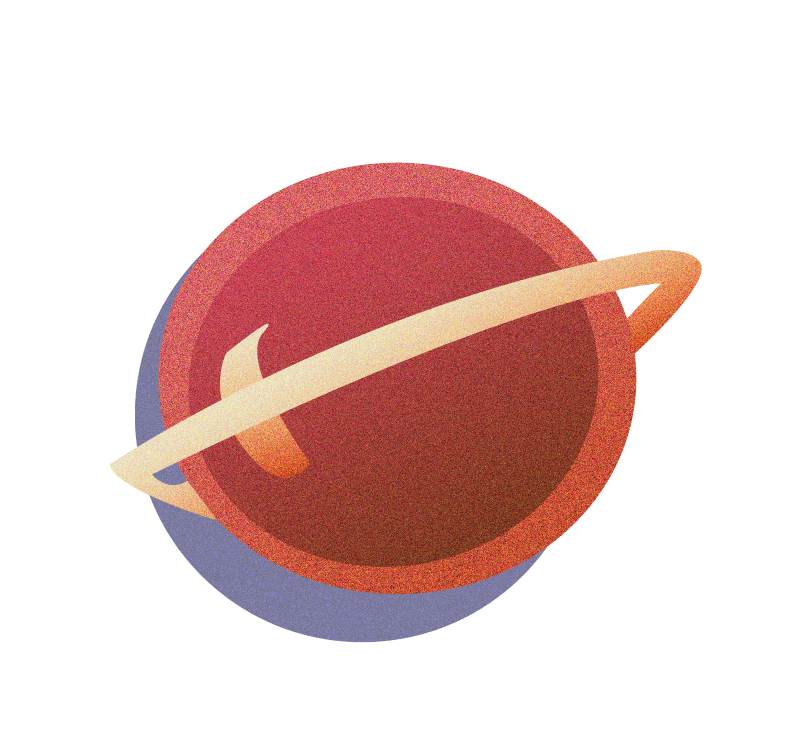
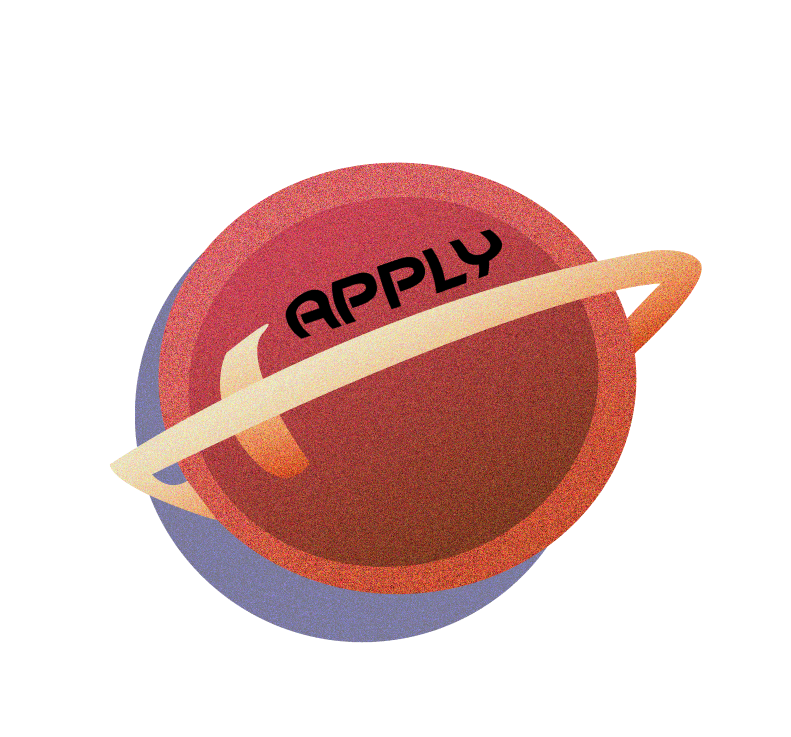
Lots of changes

Changed region(s): [[0.3641, 0.3121, 0.6372, 0.4681]]

diff --git a/src/components/Faq.vue b/src/components/Faq.vue
@@ -1,20 +1,77 @@
 
 <template>
     <div id="faqSponsor-parent">
-        <img src="../assets/custom-images/faq/faq.png" alt="faq" id="faq">
-        <img src="../assets/custom-images/faq/mid-left.png" alt="orange planet" id="orange">
+        <img src="../assets/custom-images/faq/faqLogo.png" alt="faq" id="faq">
         <img src="../assets/custom-images/faq/green-planet.png" alt="pink planet" id="pink">
         <img src="../assets/custom-images/faq/stars-1.png" alt="stars" id="stars-1">
         <img src="../assets/custom-images/faq/stars-2.png" alt="stars" id="stars-2">
-        <img src="../assets/custom-images/faq/stars-3.png" alt="stars" id="stars-3">
-    </div>
+        <!-- <img src="../assets/custom-images/faq/stars-3.png" alt="stars" id="stars-3"> -->
 
+        <div id="questions">
+            <Question
+                question = "What is a hackathon?"
+                answer = "A hackathon is an invention marathon where students build software around a central theme. At Hack WashU, you can look forward to amazing prizes, engaging speakers, and tons of skilled mentors!"
+            />
+            <Question
+                question = "When is Hack WashU?"
+                answer = "Hack WashU will start on the evening of October 15, 2022 and end on the morning of the 17th"
+            />
+            <Question
+                question = "Who can attend Hack WashU?"
+                answer = "Any college student in the continental United States can attend Hack WashU!"
+            />
+            <Question
+                question = "Is Hack WashU in-person?"
+                answer = "Hack WashU will primarily be virtual, but there will be an in-person component for WashU students"
+            />
+            <Question
+                question = "Is Hack WashU free?"
+                answer = "YES!!!"
+            />
+            <Question
+                question = "If I can't code, should I still come?"
+                answer = "YES!!! Hack WashU will be an inclusive event for all"
+            />
+            <Question
+                question = "Will there be swag?"
+                answer = "YES!!!"
+            />
+            <Question
+                question = "I have more questions!!"
+                answer = "Feel free to reach out to us at organizer@hackwashu.io!"
+            />
+        </div>
+    </div>
 </template>
+
+<script>
+import Question from './Questions.vue'
+
+export default {
+  name: 'FAQ',
+  components: {
+      Question,
+  }
+}
+</script>
 
 
 
 <style scoped>
 
+#questions{
+    position: flex;
+    flex-direction: column;
+    justify-content: center;
+    text-align: center;
+    align-items: center;
+    margin-bottom: 0vw;
+    margin-top: 12vw;
+    margin-left: 5vw;
+    margin-right: 5vw;
+    width: 100%;
+    z-index: 9999;
+}
 
 #stars-3{
     position: absolute;
@@ -40,18 +97,12 @@
     height: 8vw;
 }
 
-#orange{
-    position: absolute;
-    right: 7vw;
-    top: -6vw;
-    width: 32vw;
-    height: 32vw;
-}
+
 
 #pink{
     position: absolute;
-    right: 4vw;
-    top: 38vw;
+    left: 4vw;
+    bottom: -2vw;
     width: 16vw;
     height: 16vw;
 }
@@ -59,16 +110,16 @@
 
 #faq{
     position: absolute;
-    right: 25vw;
-    top: 3vw;
-    width: 75vw;
-    height: 60vw;
+    right: 32vw;
+    top: -9vw;
+    width: 36vw;
+    height: 26vw;
 }
 
 #faqSponsor-parent {
     display: flex;
     position: relative;
-    height: 65vw; 
+    height: 75vw; 
 }
 
 </style>

diff --git a/src/components/Questions.vue b/src/components/Questions.vue
@@ -1,0 +1,60 @@
+<template>
+    <div class="container" :class="{'active_container':showAnswer}">
+        <button @click="showAnswer=!showAnswer" :class="{'active_button':showAnswer, 'initial_button':!showAnswer}">
+            <img src="../assets/custom-images/faq/faq-stars-2.png" alt="faq" id="faq">
+            <h2>{{ this.question }}</h2>
+        <div class="ans" v-show="showAnswer"><p>{{ this.answer }}</p></div>
+        </button>
+    </div>
+</template>
+    
+<script>
+export default {
+    name: 'Question',
+    props: ['question', 'answer'],
+    data() {
+        return {
+            showAnswer: false,
+        };
+    },
+};
+</script>
+
+<style scoped>
+.container {
+    display: flex; 
+    align-items: center;
+    justify-content: center; 
+}
+
+img {
+    height: 4vw;
+    width: 4vw;
+    padding-right: 1vw;
+}
+
+button {
+    background-color: transparent;
+    display: flex; 
+    align-items: center; 
+    justify-content: center; 
+    text-align: center;
+    border: none;
+    border-radius: 1vw;
+    cursor: pointer;
+    margin: 0.4vw;
+}
+
+h2 {
+    color: yellow;
+    text-align: center;
+    font-size: 2.2vw;
+    margin-right: 1vw;
+}
+
+p {
+    text-align: left;
+    color: white;
+    font-size: 1.5vw;
+}
+</style>
